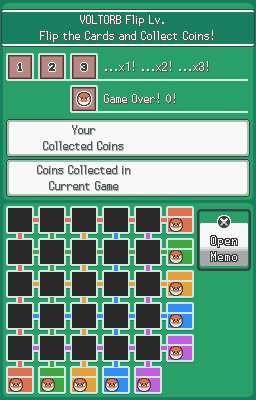
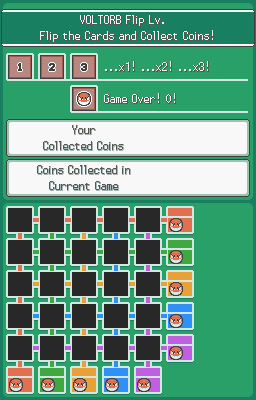
Implemented memo menu

Changed region(s): [[0.75, 0.51, 1.0, 0.69]]

diff --git a/src/components/MemoMenu.vue b/src/components/MemoMenu.vue
@@ -1,0 +1,100 @@
+<script lang="ts">
+import { defineComponent, PropType } from "vue";
+import { TileValue } from "../types";
+
+import memoOpen from "../assets/memo_open.png";
+import memoClose from "../assets/memo_close.png";
+import memo1On from "../assets/memo_1_on.png";
+import memo1Off from "../assets/memo_1_off.png";
+import memo2On from "../assets/memo_2_on.png";
+import memo2Off from "../assets/memo_2_off.png";
+import memo3On from "../assets/memo_3_on.png";
+import memo3Off from "../assets/memo_3_off.png";
+import memoBombOn from "../assets/memo_bomb_on.png";
+import memoBombOff from "../assets/memo_bomb_off.png";
+
+export default defineComponent({
+  emits: ["update:modelValue"],
+  props: {
+    modelValue: {
+      type: Number as PropType<TileValue | null>,
+      default: null,
+    },
+  },
+  setup() {
+    return {
+      memoOpen,
+      memoClose,
+      memo1On,
+      memo1Off,
+      memo2On,
+      memo2Off,
+      memo3On,
+      memo3Off,
+      memoBombOn,
+      memoBombOff,
+      TileValue,
+    };
+  },
+  data() {
+    return {
+      open: false,
+    };
+  },
+  methods: {
+    onChange(value: TileValue | null) {
+      this.$emit("update:modelValue", value);
+    },
+  },
+});
+</script>
+
+<template>
+  <div class="memo">
+    <div class="memo-toggle">
+      <img
+        :src="open ? memoClose : memoOpen"
+        @click="
+          open = !open;
+          onChange(open ? TileValue.BOMB : null);
+        "
+      />
+    </div>
+    <div v-if="open" class="memo-menu">
+      <img
+        :src="modelValue === TileValue.BOMB ? memoBombOn : memoBombOff"
+        @click="onChange(TileValue.BOMB)"
+      />
+      <img
+        :src="modelValue === TileValue.X1 ? memo1On : memo1Off"
+        @click="onChange(TileValue.X1)"
+      />
+      <img
+        :src="modelValue === TileValue.X2 ? memo2On : memo2Off"
+        @click="onChange(TileValue.X2)"
+      />
+      <img
+        :src="modelValue === TileValue.X3 ? memo3On : memo3Off"
+        @click="onChange(TileValue.X3)"
+      />
+    </div>
+  </div>
+</template>
+
+<style scoped>
+.memo {
+  position: absolute;
+  right: 5px;
+  top: 209px;
+}
+.memo-menu {
+  box-sizing: border-box;
+  background-image: url("../assets/memo_menu.png");
+  width: 54px;
+  height: 78px;
+  display: grid;
+  grid-template-rows: repeat(2, 24px);
+  grid-template-columns: repeat(2, 24px);
+  padding: 3px;
+}
+</style>

diff --git a/src/App.vue b/src/App.vue
@@ -2,6 +2,7 @@
 import { defineComponent } from "vue";
 
 import Hint from "./components/Hint.vue";
+import MemoMenu from "./components/MemoMenu.vue";
 import NumericDisplay, { FontStyles } from "./components/NumericDisplay.vue";
 import Tile from "./components/Tile.vue";
 import TextBox from "./components/TextBox.vue";
@@ -17,7 +18,7 @@ import {
 } from "./utils";
 
 export default defineComponent({
-  components: { Hint, NumericDisplay, TextBox, Tile },
+  components: { Hint, MemoMenu, NumericDisplay, TextBox, Tile },
   setup() {
     return { FontStyles };
   },
@@ -31,6 +32,7 @@ export default defineComponent({
       level: 0,
       totalScore: 0,
       state: GameState.PLAYING,
+      memoType: null as TileValue | null,
       message: [] as Array<string>,
       // Current level
       score: 0,
@@ -205,16 +207,7 @@ export default defineComponent({
         v-bind="hints.columns[colIndex]"
       />
     </div>
-    <div id="memo">
-      <div id="memo-toggle" />
-      <div id="memo-menu">
-        <div id="memo-button-bomb" />
-        <div id="memo-button-1" />
-        <div id="memo-button-2" />
-        <div id="memo-button-3" />
-        <div />
-      </div>
-    </div>
+    <memo-menu v-model="memoType" />
     <text-box :pages="message" @close="onClose" />
   </div>
 </template>
